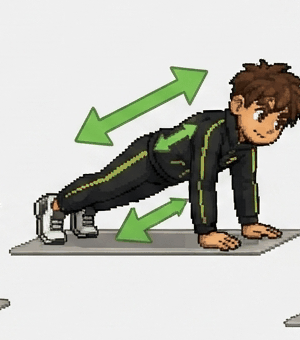
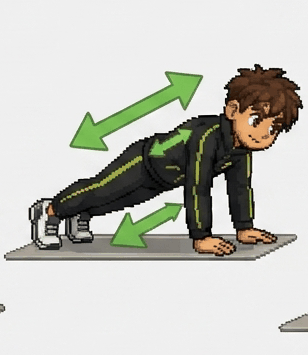
Séance: visuel plein écran, légendes incrustées, rating mis en avant + re-découpage des poses
- Le lecteur de poses (idle) et la boîte visuelle (active/rating/done)
  passent d'un carré ~320px à ~62% de la hauteur d'écran (h-[62vh]) —
  le visuel domine enfin l'écran au lieu d'en occuper une fraction.
- Les légendes de pose sont incrustées directement sur l'image (scrim
  dégradé en bas, texte blanc en gras) au-dessus de l'avatar Coach
  Brian, plutôt qu'en petit texte gris sous l'image.
- ExerciseFrameLoop: l'enchaînement des poses pendant l'exercice passe
  de 450ms à 3s par frame (beaucoup trop rapide, natural du"effet
  vidéo" recherché).
- "Comment tu as trouvé l'exercice ?" (rating): remonté juste après le
  visuel (au lieu d'être en bas de page), mis en évidence dans un
  encadré coloré avec Coach Brian rappelant l'importance d'être
  honnête pour bien progresser, boutons de difficulté colorés du vert
  au rouge au lieu de boutons gris uniformes.
- Re-découpage de 6 planches d'exercices (squats, fentes avant,
  talons-fesses, montées de genoux, squat jumps, gainage planche):
  les limites de recadrage se chevauchaient légèrement, laissant
  dépasser un bout de personnage voisin sur certaines poses.

Dashboard: objectifs (coches sans barré — barrer donnait une
impression d'échec plutôt que d'accomplissement), carte "Mission du
jour" avec un contraste plus marqué pour mieux se détacher du fond,
bouton CTA plus solide/moins dégradé, badges de filtres allégés.

Claude-Session: https://claude.ai/code/session_01W7F4wUrQFUiM3epwxSoDMj

Changed region(s): [[0.0, 0.1765, 1.0, 0.7647], [0.9, 0.8824, 1.0, 0.9706], [0.0, 0.8529, 0.03, 0.9118]]

diff --git a/components/exercises/ExerciseFrameViewer.tsx b/components/exercises/ExerciseFrameViewer.tsx
@@ -14,6 +14,9 @@ const COUNTDOWN_START = 3;
  * un écran "Prêt ?" avant un compte à rebours annulable. `onReady` est
  * appelé une fois le compte à rebours écoulé — le parent bascule alors sur
  * la phase active (chrono + boucle des poses en fond).
+ *
+ * Le cadre occupe l'essentiel de l'écran (visuel = ce qu'on doit voir),
+ * avec la légende incrustée directement sur l'image plutôt qu'en dessous.
  */
 export function ExerciseFrameViewer({
   sequence,
@@ -37,31 +40,38 @@ export function ExerciseFrameViewer({
     return () => window.clearTimeout(id);
   }, [countdown, onReady]);
 
+  const frameClass =
+    "relative flex h-[62vh] min-h-[420px] w-full items-center justify-center overflow-hidden rounded-[var(--radius-card)] bg-[var(--color-surface-alt)]";
+
   if (countdown !== null) {
     return (
-      <div className="flex flex-col items-center gap-4 py-6">
-        <p className="font-display text-7xl font-extrabold tabular-nums text-[var(--color-primary-strong)]">
-          {countdown}
-        </p>
-        <Button variant="ghost" onClick={() => setCountdown(null)}>
-          Annuler
-        </Button>
+      <div className={frameClass}>
+        <div className="flex flex-col items-center gap-4">
+          <p className="font-display text-8xl font-extrabold tabular-nums text-[var(--color-primary-strong)]">
+            {countdown}
+          </p>
+          <Button variant="ghost" onClick={() => setCountdown(null)}>
+            Annuler
+          </Button>
+        </div>
       </div>
     );
   }
 
   if (onReadyScreen) {
     return (
-      <div className="flex flex-col items-center gap-3 py-4 text-center">
-        <BrianAvatar state="confident" size={72} />
-        <p className="text-sm font-semibold text-[var(--color-text)]">C&apos;est bon, tu as compris ?</p>
-        <div className="flex w-full gap-2">
-          <Button variant="ghost" className="flex-1" onClick={() => setIndex(total - 1)}>
-            Revoir
-          </Button>
-          <Button className="flex-1" onClick={() => setCountdown(COUNTDOWN_START)}>
-            Prêt
-          </Button>
+      <div className={frameClass}>
+        <div className="flex flex-col items-center gap-3 px-8 text-center">
+          <BrianAvatar state="confident" size={88} />
+          <p className="text-base font-semibold text-[var(--color-text)]">C&apos;est bon, tu as compris ?</p>
+          <div className="flex w-full gap-2">
+            <Button variant="ghost" className="flex-1" onClick={() => setIndex(total - 1)}>
+              Revoir
+            </Button>
+            <Button className="flex-1" onClick={() => setCountdown(COUNTDOWN_START)}>
+              Prêt
+            </Button>
+          </div>
         </div>
       </div>
     );
@@ -70,32 +80,38 @@ export function ExerciseFrameViewer({
   const pose = sequence.poses[index];
 
   return (
-    <div>
-      <div className="relative aspect-square w-full overflow-hidden rounded-[var(--radius-card)] bg-[var(--color-surface-alt)]">
-        <Image src={pose.image} alt="" fill className="object-contain" unoptimized />
-        {index > 0 && (
-          <button
-            type="button"
-            onClick={() => setIndex((i) => i - 1)}
-            aria-label="Pose précédente"
-            className="absolute left-2 top-1/2 flex h-10 w-10 -translate-y-1/2 items-center justify-center rounded-full bg-[var(--color-text)]/70 text-xl text-white"
-          >
-            ←
-          </button>
-        )}
+    <div className={frameClass}>
+      <Image src={pose.image} alt="" fill className="object-contain" unoptimized />
+      {index > 0 && (
         <button
           type="button"
-          onClick={() => setIndex((i) => i + 1)}
-          aria-label="Pose suivante"
-          className="absolute right-2 top-1/2 flex h-10 w-10 -translate-y-1/2 items-center justify-center rounded-full bg-[var(--color-primary)] text-xl text-white"
+          onClick={() => setIndex((i) => i - 1)}
+          aria-label="Pose précédente"
+          className="absolute left-3 top-1/2 flex h-11 w-11 -translate-y-1/2 items-center justify-center rounded-full bg-[var(--color-text)]/70 text-2xl text-white"
         >
-          →
+          ←
         </button>
-        <span className="absolute bottom-2 right-2 rounded-full bg-[var(--color-text)]/70 px-2 py-0.5 text-[0.65rem] font-bold text-white">
-          {index + 1}/{total}
-        </span>
+      )}
+      <button
+        type="button"
+        onClick={() => setIndex((i) => i + 1)}
+        aria-label="Pose suivante"
+        className="absolute right-3 top-1/2 flex h-11 w-11 -translate-y-1/2 items-center justify-center rounded-full bg-[var(--color-primary)] text-2xl text-white"
+      >
+        →
+      </button>
+      <span className="absolute left-3 top-3 rounded-full bg-[var(--color-text)]/70 px-2.5 py-1 text-xs font-bold text-white">
+        {index + 1}/{total}
+      </span>
+
+      <div className="absolute inset-x-0 bottom-0 bg-gradient-to-t from-black/75 via-black/40 to-transparent px-4 pb-4 pt-12">
+        <div className="flex items-end justify-between gap-3">
+          <p className="text-lg font-bold leading-snug text-white [text-shadow:0_1px_4px_rgba(0,0,0,0.6)]">
+            {pose.caption}
+          </p>
+          <BrianAvatar state="talking" size={48} className="shrink-0 ring-2 ring-white/80" />
+        </div>
       </div>
-      <p className="mt-3 text-center text-sm text-[var(--color-text)]">{pose.caption}</p>
     </div>
   );
 }

diff --git a/components/session/SessionPlayer.tsx b/components/session/SessionPlayer.tsx
@@ -68,13 +68,44 @@ const PHASE_BADGE_STYLE: Record<SessionBlockView["phase"], string> = {
   COOLDOWN: "bg-[#60a5fa]/15 text-[#1d4ed8]",
 };
 
-const DIFFICULTY_OPTIONS: { value: "VERY_EASY" | "EASY" | "MEDIUM" | "HARD" | "VERY_HARD"; label: string }[] = [
-  { value: "VERY_EASY", label: "Très facile" },
-  { value: "EASY", label: "Facile" },
-  { value: "MEDIUM", label: "Moyen" },
-  { value: "HARD", label: "Difficile" },
-  { value: "VERY_HARD", label: "Très difficile" },
+const DIFFICULTY_OPTIONS: { value: "VERY_EASY" | "EASY" | "MEDIUM" | "HARD" | "VERY_HARD"; label: string; color: string }[] = [
+  { value: "VERY_EASY", label: "Très facile", color: "#1aa350" },
+  { value: "EASY", label: "Facile", color: "#7cc576" },
+  { value: "MEDIUM", label: "Moyen", color: "#e0b23f" },
+  { value: "HARD", label: "Difficile", color: "#e08a3f" },
+  { value: "VERY_HARD", label: "Très difficile", color: "#c23b3b" },
 ];
+
+/** Le ressenti de difficulté ajuste directement la génération suivante — mis en valeur pour que le joueur prenne cette question au sérieux. */
+function RatingCard({ onRate }: { onRate: (v: string) => void }) {
+  return (
+    <div className="mt-3 rounded-[var(--radius-card)] border-2 border-[var(--color-primary)] bg-[var(--color-primary-soft)] p-4">
+      <div className="flex items-start gap-2">
+        <BrianAvatar state="talking" size={36} />
+        <p className="text-sm font-semibold text-[var(--color-text)]">
+          Sois honnête sur ce ressenti — c&apos;est ce qui me permet d&apos;ajuster tes prochaines séances et de vraiment
+          te faire progresser.
+        </p>
+      </div>
+      <p className="mt-3 text-center text-sm font-extrabold uppercase tracking-wide text-[var(--color-primary-strong)]">
+        Comment tu as trouvé l&apos;exercice ?
+      </p>
+      <div className="mt-2 grid grid-cols-5 gap-1.5">
+        {DIFFICULTY_OPTIONS.map((opt) => (
+          <button
+            key={opt.value}
+            type="button"
+            onClick={() => onRate(opt.value)}
+            className="rounded-[var(--radius-control)] px-1 py-2 text-center text-[0.65rem] font-bold leading-tight text-white"
+            style={{ background: opt.color }}
+          >
+            {opt.label}
+          </button>
+        ))}
+      </div>
+    </div>
+  );
+}
 
 type BlockPhaseState = "idle" | "active" | "rating" | "done";
 
@@ -518,7 +549,7 @@ function ActiveExerciseScreen({
           />
         )}
         {state.phase === "idle" && frames ? (
-          <div className="mx-auto mt-3 w-full max-w-xs">
+          <div className="mx-auto mt-3 w-full">
             <ExerciseFrameViewer sequence={frames} onReady={onStart} />
             <button
               type="button"
@@ -529,7 +560,7 @@ function ActiveExerciseScreen({
             </button>
           </div>
         ) : (
-          <div className="relative mx-auto mt-3 aspect-square w-full max-w-xs overflow-hidden rounded-[var(--radius-card)] bg-[var(--color-surface-alt)]">
+          <div className="relative mx-auto mt-3 h-[62vh] min-h-[420px] w-full overflow-hidden rounded-[var(--radius-card)] bg-[var(--color-surface-alt)]">
             {frames ? (
               <ExerciseFrameLoop sequence={frames} />
             ) : EXERCISE_VIDEO[block.exercise.slug] ? (
@@ -556,6 +587,8 @@ function ActiveExerciseScreen({
           </div>
         )}
 
+        {state.phase === "rating" && <RatingCard onRate={onRate} />}
+
         <CardTitle className="mt-4 text-center text-xl">
           {block.exercise.emoji} {block.exercise.name}
         </CardTitle>
@@ -579,24 +612,6 @@ function ActiveExerciseScreen({
         </div>
         {variant === "easy" && <p className="mt-2 text-center text-sm text-[var(--color-text-muted)]">{block.exercise.easyVariant}</p>}
         {variant === "hard" && <p className="mt-2 text-center text-sm text-[var(--color-text-muted)]">{block.exercise.hardVariant}</p>}
-
-        {state.phase === "rating" && (
-          <div className="mt-5 border-t border-[var(--color-border)] pt-4">
-            <p className="text-center text-sm font-semibold">Comment tu as trouvé l&apos;exercice ?</p>
-            <div className="mt-2 grid grid-cols-5 gap-1">
-              {DIFFICULTY_OPTIONS.map((opt) => (
-                <button
-                  key={opt.value}
-                  type="button"
-                  onClick={() => onRate(opt.value)}
-                  className="rounded-[var(--radius-control)] border border-[var(--color-border)] px-1 py-2 text-center text-[0.65rem] font-semibold leading-tight hover:border-[var(--color-primary)] hover:bg-[var(--color-primary-soft)]"
-                >
-                  {opt.label}
-                </button>
-              ))}
-            </div>
-          </div>
-        )}
 
         {state.phase === "done" && state.reaction && (
           <BrianMessageCard

diff --git a/components/dashboard/DailyObjectives.tsx b/components/dashboard/DailyObjectives.tsx
@@ -13,14 +13,14 @@ export function DailyObjectives({ objectives }: { objectives: DailyObjective[] }
           <li key={o.id} className="flex items-center gap-2 text-sm">
             <span
               className={`flex h-5 w-5 shrink-0 items-center justify-center rounded-full text-xs ${
-                o.done ? "bg-[var(--color-primary)] text-[var(--color-on-primary)]" : "bg-white/60 text-transparent"
+                o.done
+                  ? "bg-[var(--color-primary)] text-[var(--color-on-primary)]"
+                  : "border-2 border-[var(--color-border)] bg-white/60 text-transparent"
               }`}
             >
               ✓
             </span>
-            <span className={o.done ? "text-[var(--color-primary-strong)] line-through" : "text-[var(--color-text)]"}>
-              {o.label}
-            </span>
+            <span className="text-[var(--color-text)]">{o.label}</span>
           </li>
         ))}
       </ul>

diff --git a/components/dashboard/DashboardHero.tsx b/components/dashboard/DashboardHero.tsx
@@ -40,8 +40,9 @@ export function DashboardHero({
     <div
       className="relative overflow-hidden rounded-[1.75rem] p-5 text-white"
       style={{
-        background: "linear-gradient(160deg, #1fbf63 0%, #0e7a3c 55%, #082f18 130%)",
-        boxShadow: "0 20px 45px -20px rgba(6, 30, 16, 0.6)",
+        background: "linear-gradient(160deg, #22c55e 0%, #0e7a3c 60%, #072a16 130%)",
+        boxShadow:
+          "0 0 0 1px rgba(14,122,60,0.5), 0 30px 60px -18px rgba(6, 30, 16, 0.85), 0 10px 24px -10px rgba(14,122,60,0.55)",
       }}
     >
       <span aria-hidden className="hero-particle absolute left-8 top-12 h-1.5 w-1.5 rounded-full bg-white/50" style={{ animationDelay: "0s" }} />

diff --git a/components/ui/Chip.tsx b/components/ui/Chip.tsx
@@ -5,7 +5,7 @@ export function Chip({ className, ...props }: HTMLAttributes<HTMLSpanElement>) {
   return (
     <span
       className={cn(
-        "inline-flex items-center gap-1 rounded-full border border-[var(--color-border)] bg-[var(--color-surface-alt)] px-3 py-1 text-xs font-semibold text-[var(--color-text-muted)]",
+        "inline-flex items-center gap-1 rounded-full border border-[var(--color-border)]/70 bg-transparent px-3 py-1 text-[0.7rem] font-medium tracking-wide text-[var(--color-text-muted)]",
         className
       )}
       {...props}

diff --git a/components/exercises/ExerciseFrameLoop.tsx b/components/exercises/ExerciseFrameLoop.tsx
@@ -4,7 +4,7 @@ import { useEffect, useState } from "react";
 import Image from "next/image";
 import type { ExerciseFrameSequence } from "@/lib/exercises/exercise-frames";
 
-const FRAME_INTERVAL_MS = 450;
+const FRAME_INTERVAL_MS = 3000;
 
 /** Fait défiler les poses en boucle (façon "vidéo" en stop-motion) pendant que le joueur exécute réellement l'exercice. */
 export function ExerciseFrameLoop({ sequence }: { sequence: ExerciseFrameSequence }) {

diff --git a/app/globals.css b/app/globals.css
@@ -223,7 +223,8 @@ button:not(:disabled):active,
   }
 }
 .cta-primary {
-  background: linear-gradient(180deg, #34d67a, #0e7a3c 70%);
+  background: linear-gradient(180deg, #1fbf63, #159650 55%, #0e7a3c);
+  box-shadow: 0 1px 0 rgba(255, 255, 255, 0.25) inset, 0 -3px 0 rgba(0, 0, 0, 0.16) inset, 0 12px 22px -8px rgba(6, 30, 16, 0.7);
   animation: cta-glow-pulse 2.6s ease-in-out infinite;
 }
 @media (prefers-reduced-motion: reduce) {
